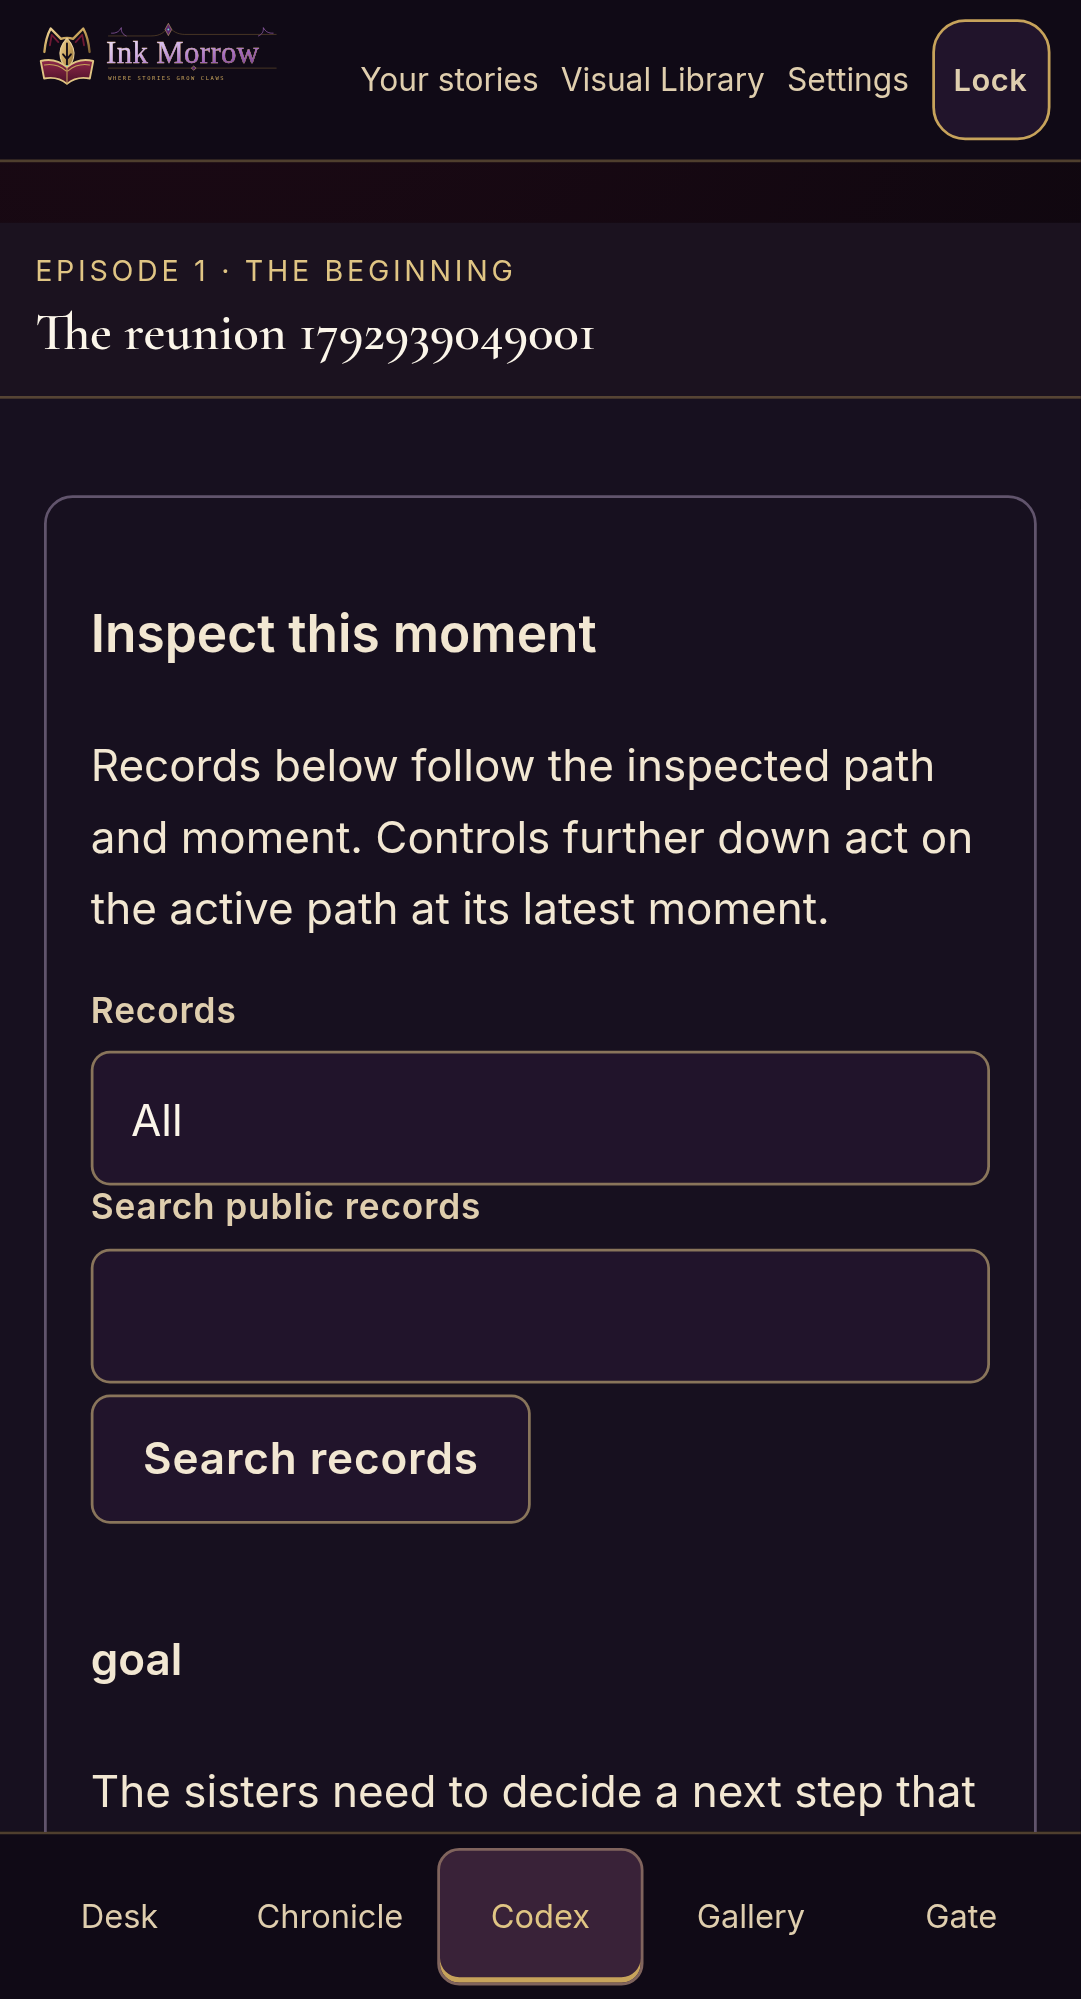
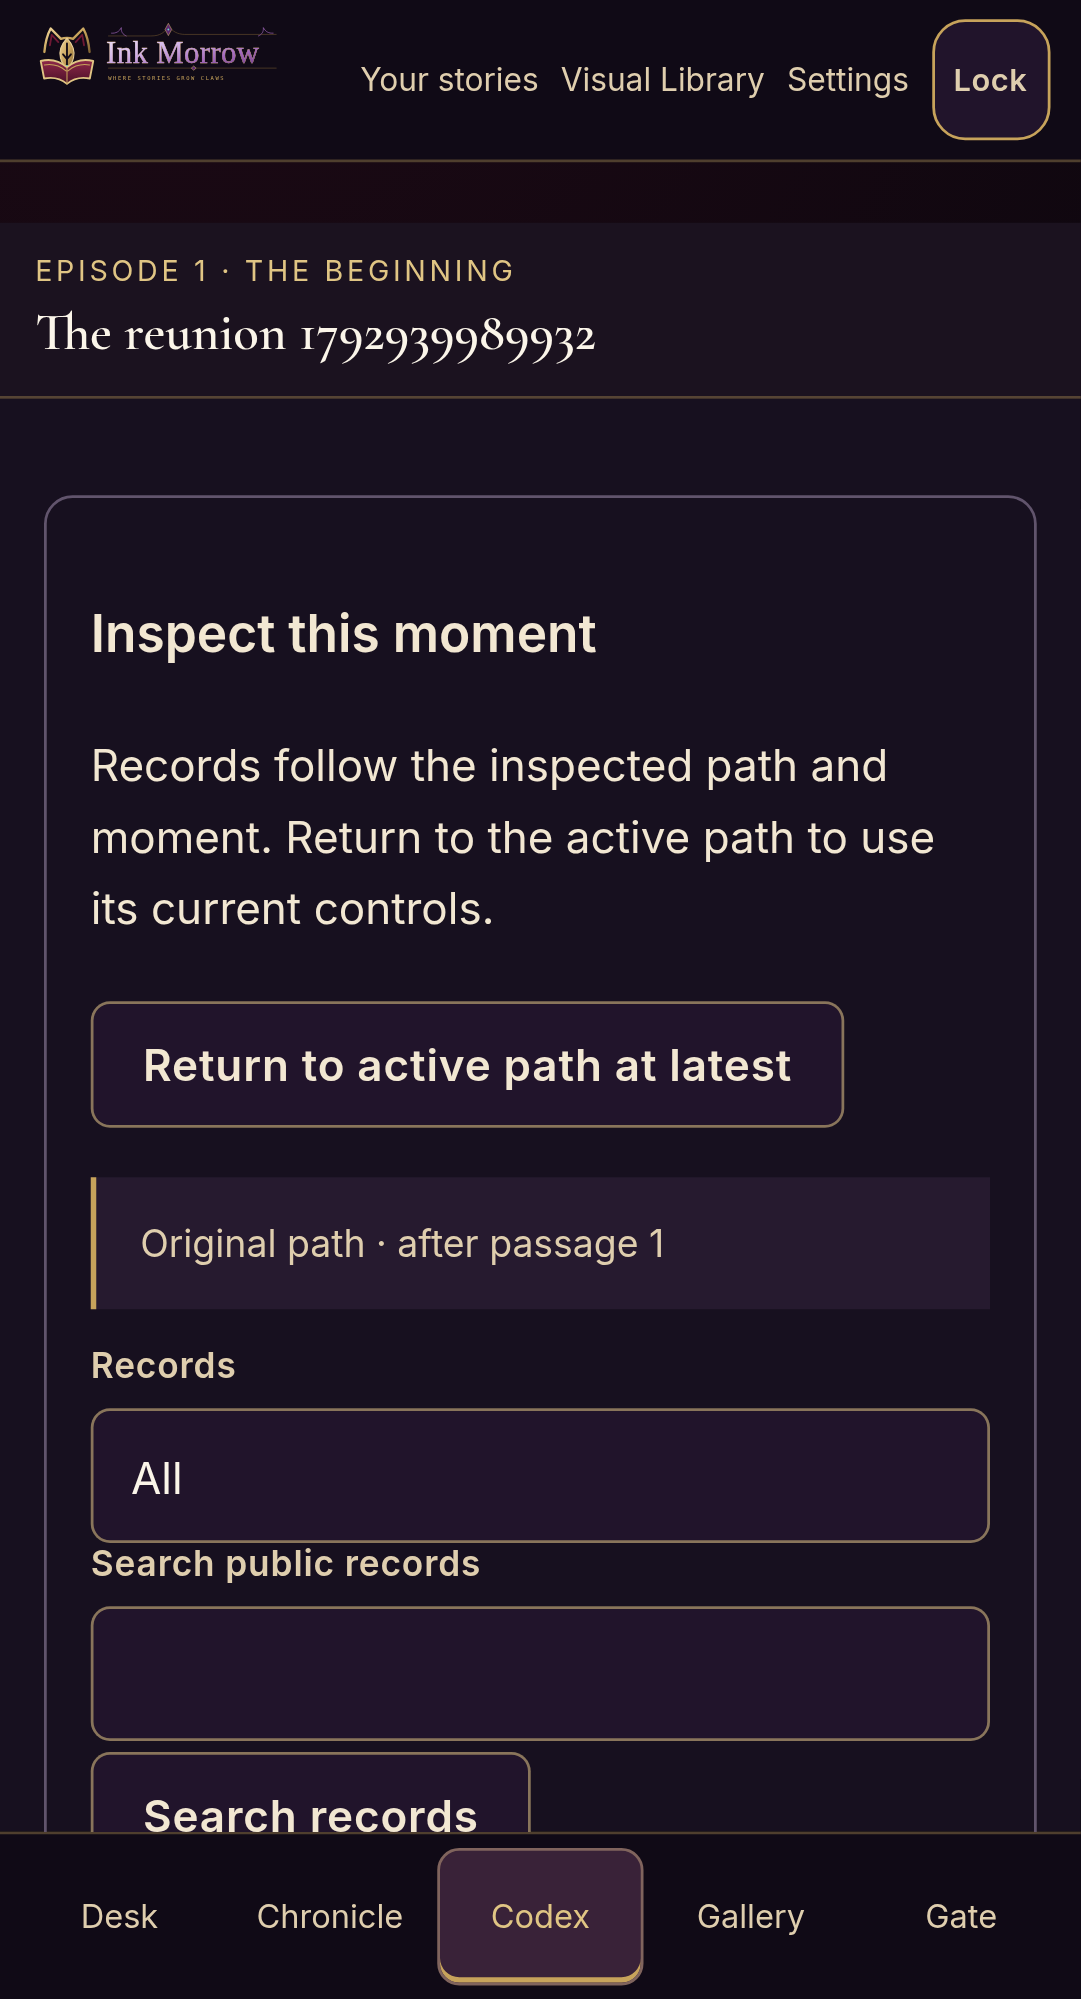
Keep submitted text private and make action destinations explicit

diff --git a/frontend/app/fiction/inspection.js b/frontend/app/fiction/inspection.js
@@ -17,6 +17,7 @@ export function createInspection({ api, dialogs, getCurrent, activate }) {
   function leave() {
     ++serial;
     privateRoot?.replaceChildren();
+    roots.delete(privateRoot);
     privateRoot?.remove();
     privateRoot = null;
   }
@@ -141,6 +142,10 @@ export function createInspection({ api, dialogs, getCurrent, activate }) {
     const desk = root('inspectionReader', 'workspaceDesk');
     desk.hidden = !inspected;
     if (!inspected) desk.replaceChildren();
+    for(const [name,parent] of [['gate','workspaceGate'],['gallery','workspaceGallery']]){
+      const scope=root(`inspection-${name}-target`,parent,true);scope.hidden=room!==name;
+      if(room===name){const active=story.branches.find(path=>path.id===story.active_branch_id);scope.replaceChildren(el('p',`${name==='gate'?'Book export':'Image tools'} destination: ${active?.name||'active path'} at its latest moment. Read-only browsing does not change this destination.`,'workspace-scope-note'));}
+    }
     const codex = root('inspectionCodex', 'fictionDetails', true);
     codex.hidden = room !== 'codex';
     // Current owner controls retain their explicit active/latest scope.

diff --git a/backend/tests/fiction-workspace.test.js b/backend/tests/fiction-workspace.test.js
@@ -294,4 +294,12 @@ describe('bounded historical workspace and private recovery', () => {
     expect(replay.id).toBe(first.id);
     expect(store.list()).toHaveLength(2);
   });
+  test('ordinary story reads redact submitted text while explicit owner evidence retains it',async()=>{
+    let story=start();const privateText='PRIVATE unpublished direction';
+    const complete=jest.fn().mockResolvedValue({content:JSON.stringify({prose:'The harbour is quiet.',summary:'A pause.',effects:[]}),cost_usd:0,billed_attempts:1});
+    const service=createFictionService({store,chatCompletion:complete});story=(await service.reply({gameId:story.id,expectedRevision:story.revision,idempotencyKey:'private-input',input:{kind:'steer',text:privateText}})).story;
+    expect(JSON.stringify(story)).not.toContain(privateText);expect(JSON.stringify(queries.evidence(story.id,story.head_beat_id))).not.toContain(privateText);
+    expect(queries.planning(story.id,{evidence_at:story.head_beat_id}).evidence.beat.input.text).toBe(privateText);
+  });
+
 });

diff --git a/backend/src/modules/fiction/store.js b/backend/src/modules/fiction/store.js
@@ -45,7 +45,7 @@ function createFictionStore(db) {
   const bump = (id) => db.prepare('UPDATE fiction_games SET revision = revision + 1, updated_at = CURRENT_TIMESTAMP WHERE id = ?').run(id);
   const publicBeat = (row) => row && ({
     id: row.id, parent_id: row.parent_id, branch_id: row.branch_id, kind: row.kind,
-    prose: row.prose, summary: row.summary, input: row.kind === 'correction' ? {} : JSON.parse(row.input_json),
+    prose: row.prose, summary: row.summary, input: row.kind === 'correction' ? {} : Object.fromEntries(Object.entries(JSON.parse(row.input_json)).filter(([key])=>['kind','character_id','challenge_id','approach_id','direction_scope'].includes(key))),
     changes: JSON.parse(row.changes_json).filter((change) => change.op === 'introduce' || change.fact?.visibility === 'public'), created_at: row.created_at,
   });
   const historyRows = (gameId, headId, limit = 60) => db.prepare(`
